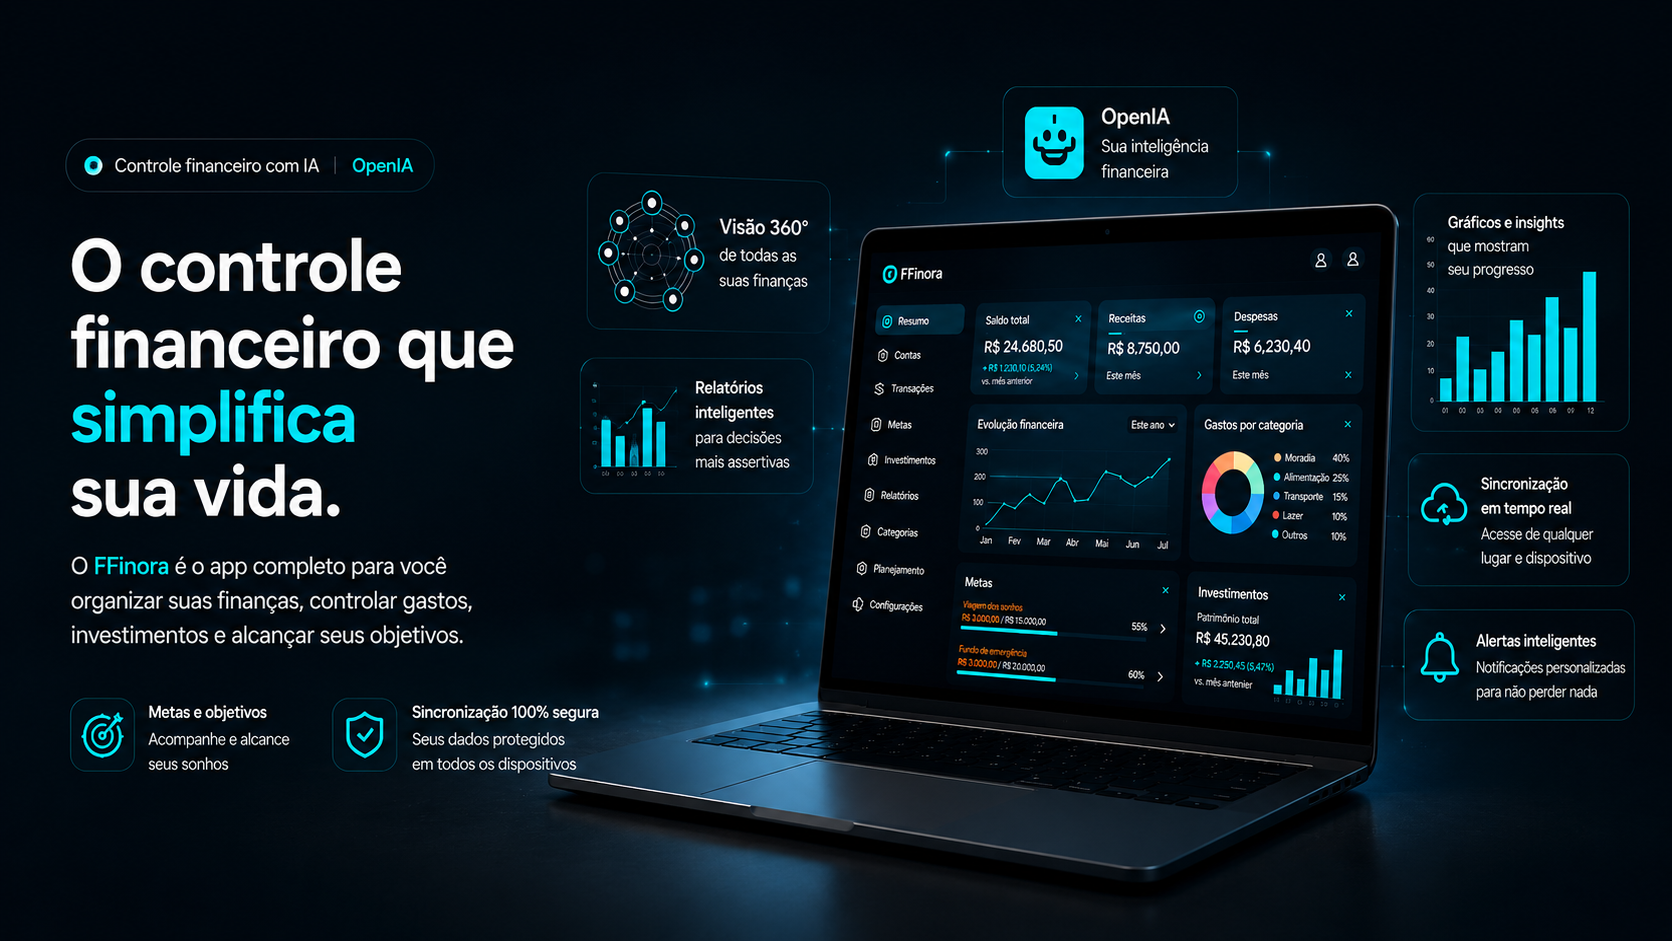
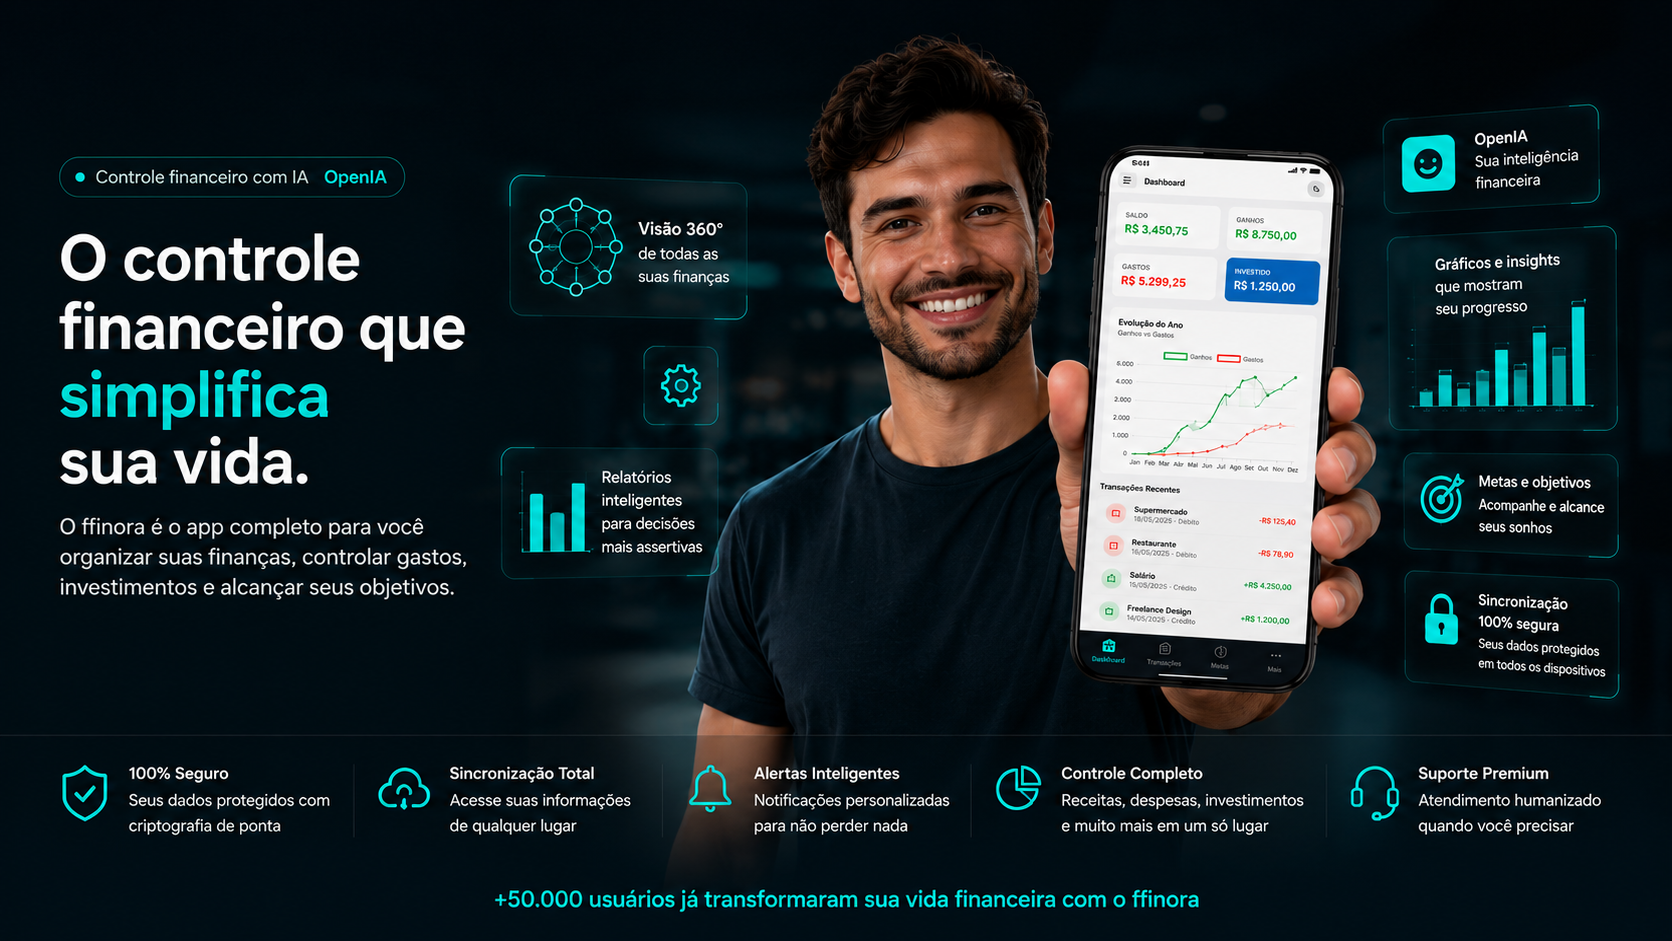
fix: aplica nova imagem da hero

diff --git a/index.html b/index.html
@@ -69,33 +69,27 @@ nav.scrolled .hamburger span{background:var(--gray-800)}
 .mobile-menu a{font-size:1rem;color:var(--gray-700);font-weight:500;padding:8px 0;border-bottom:1px solid var(--gray-100)}
 
 /* HERO */
-.hero-section{
-    width:100%;
-    background:#020b14;
-    padding-top:90px;
-    padding-bottom:40px;
-    display:flex;
-    justify-content:center;
-    align-items:center;
+.hero-section {
+  width: 100%;
+  background: #020b14;
+  display: flex;
+  justify-content: center;
+  align-items: center;
+  padding: 80px 0 40px;
+  overflow: hidden;
 }
 
-.hero-image-wrapper{
-    width:100%;
-    max-width:1600px;
-    margin:0 auto;
-}
-
-.hero-image{
-    width:100%;
-    height:auto;
-    display:block;
-    object-fit:contain;
+.hero-image {
+  width: 100%;
+  max-width: 1600px;
+  height: auto;
+  display: block;
+  object-fit: contain;
 }
 
 @media(max-width:768px){
   .hero-section {
-    padding-top:70px;
-    padding-bottom:20px;
+    padding: 60px 0 20px;
   }
 }
 
@@ -297,9 +291,7 @@ footer a{color:var(--primary-light);text-decoration:underline}
 <a href="#faq" onclick="closeMenu()">FAQ</a>
 </div>
 <section class="hero-section" id="inicio">
-  <div class="hero-image-wrapper">
-    <img src="/assets/images/Hero Section.png" alt="FFinora Hero" class="hero-image">
-  </div>
+  <img src="/assets/images/Hero Section.png" alt="FFinora Hero" class="hero-image">
 </section>
 
 <!-- BENEFICIOS -->